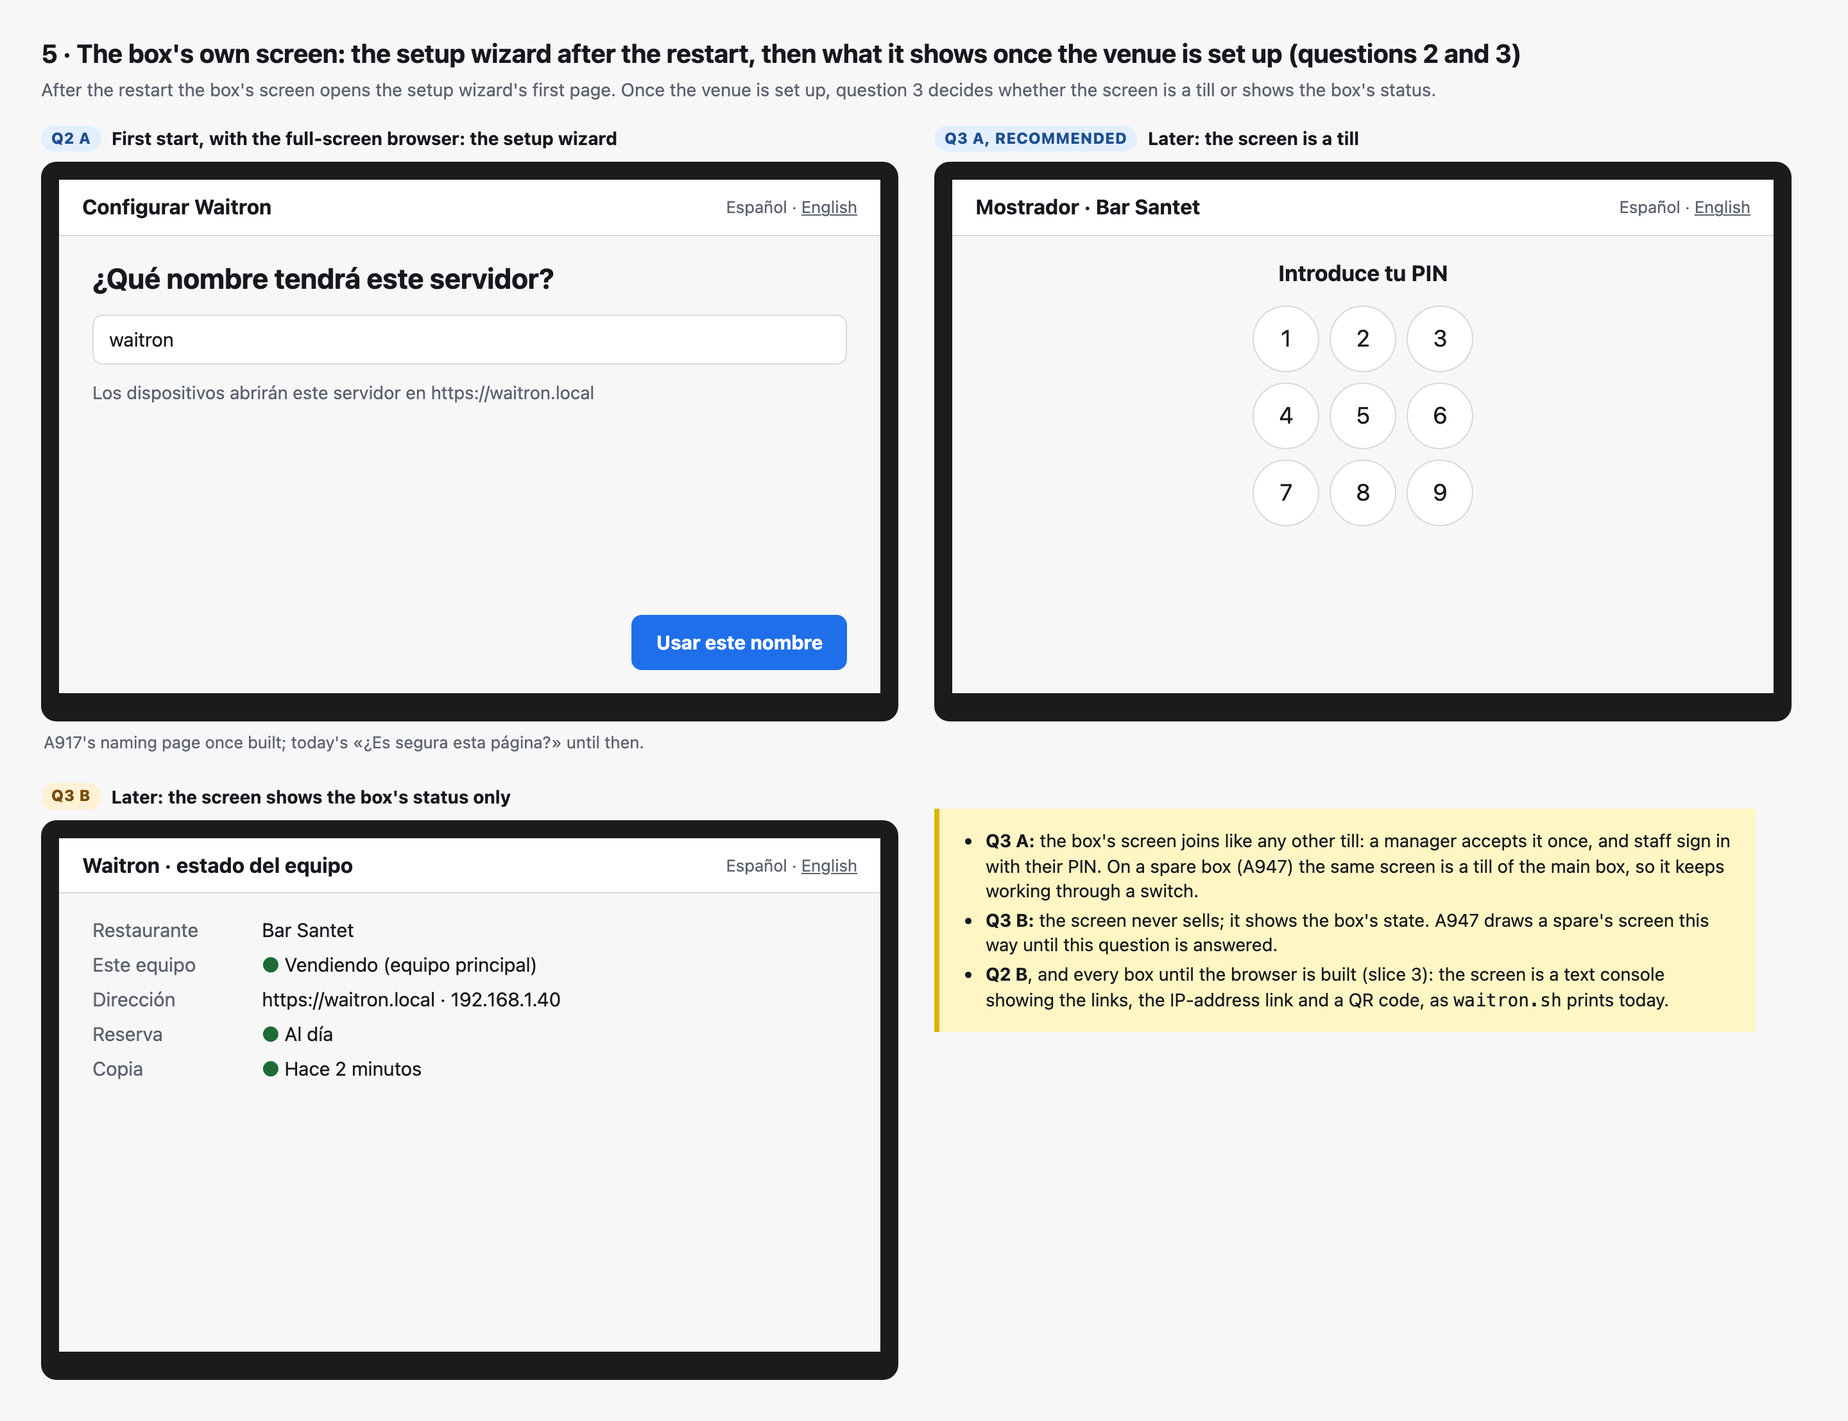
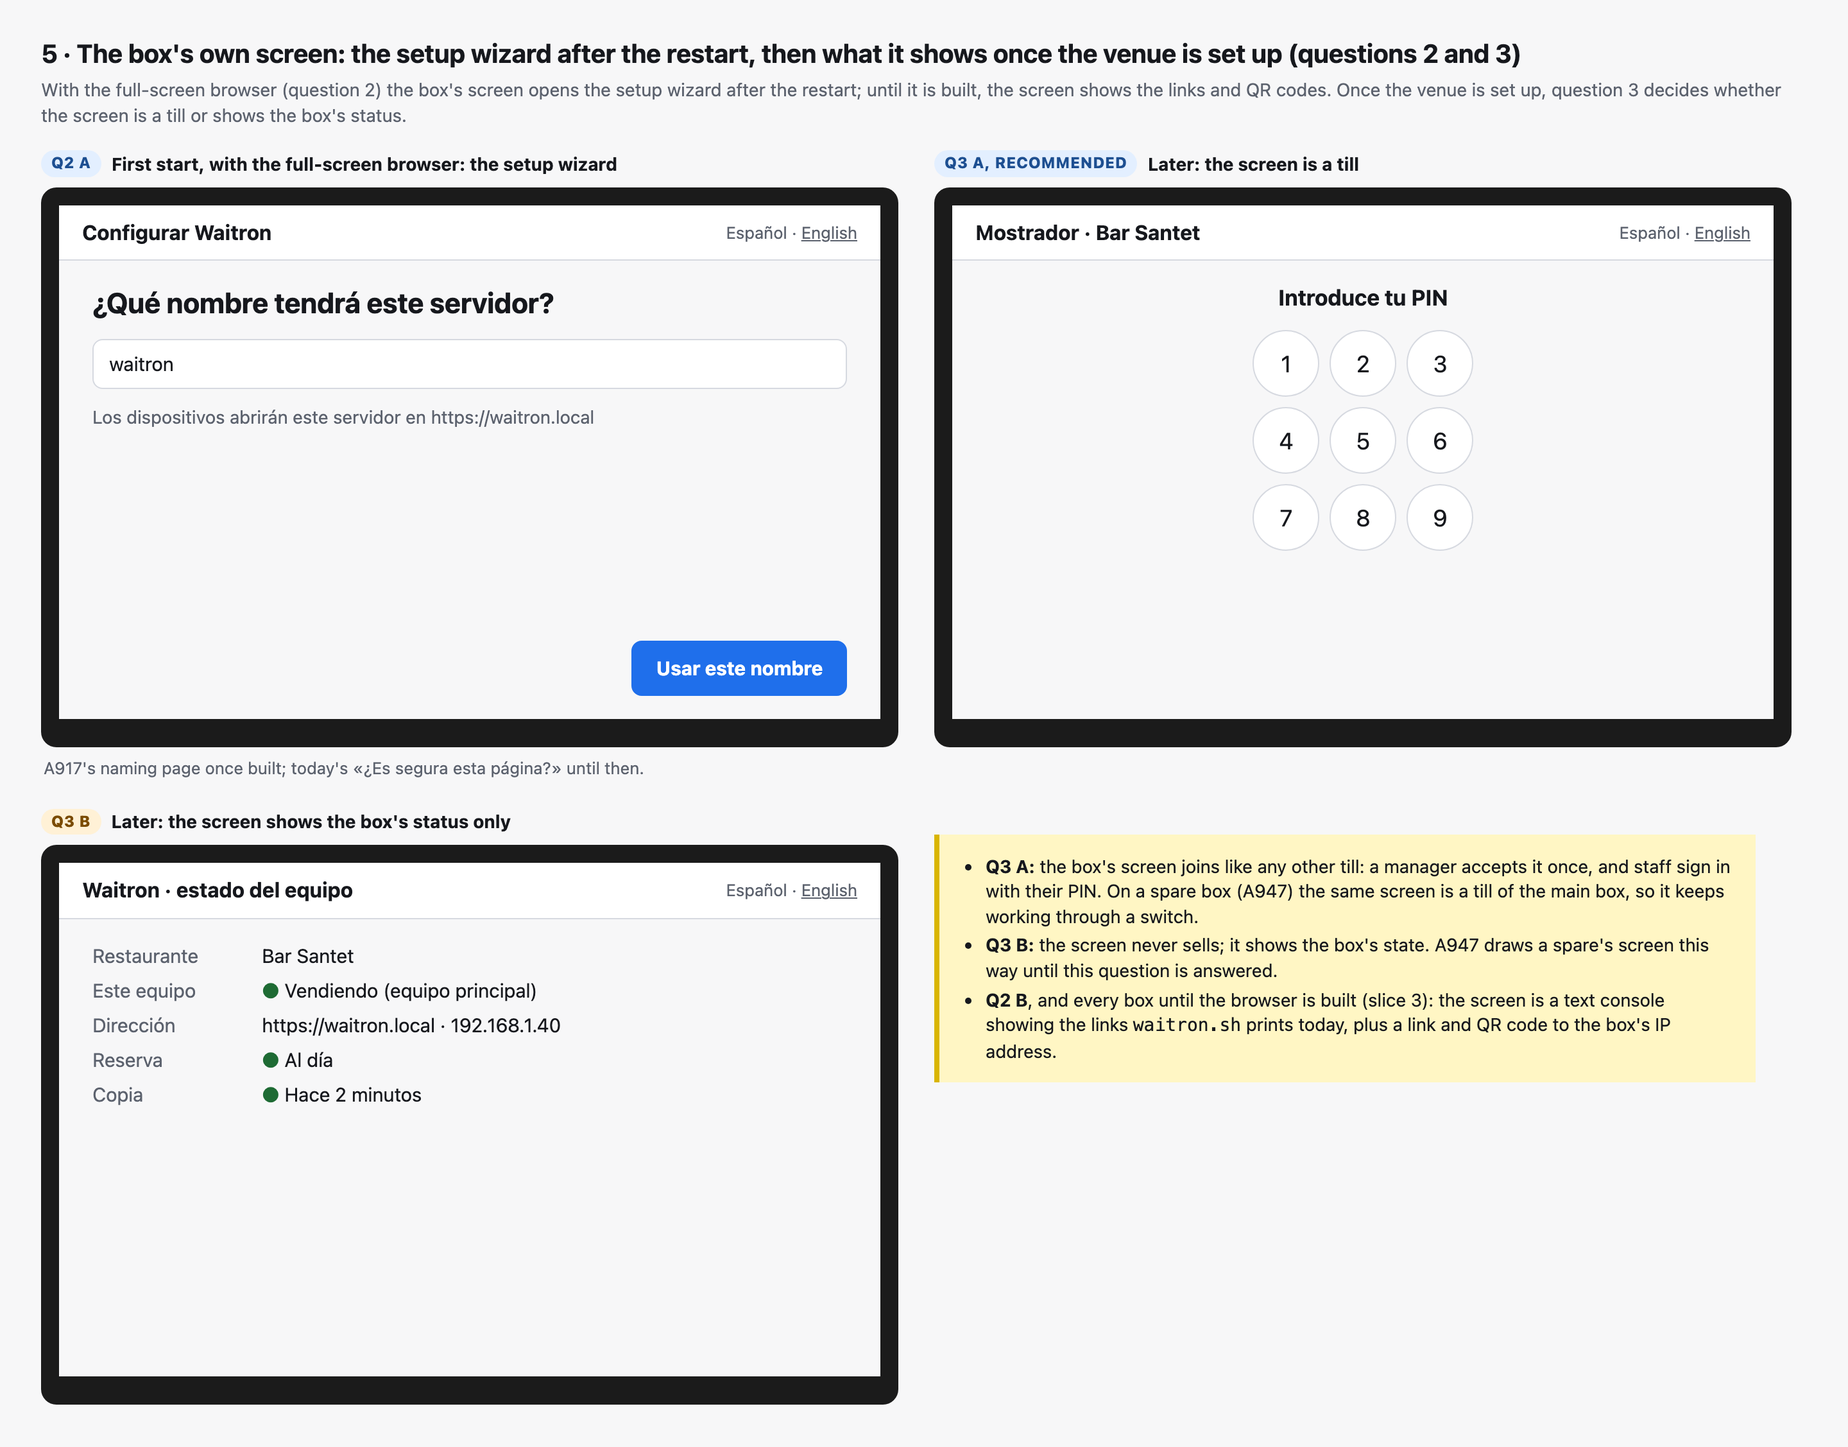
docs: B3 design — fold in three fresh checks
The installer design now names a first-start service (nothing else starts
Waitron on a stick-installed box), shows the records not yet sent to AEAT
before erasing a box, always asks to confirm the clock when offline, keeps
Docker updated, and drops the claim that the stick and waitron.sh cannot
drift apart. Pictures 2, 3 and 5 and question 1 follow.

diff --git a/docs/superpowers/specs/2026-10-21-b3-usb-installer-design.md b/docs/superpowers/specs/2026-10-21-b3-usb-installer-design.md
@@ -21,7 +21,8 @@ operating-system, partition, network or account step).
 
 The owner decided on 2026-10-21 that the first venue's boxes are installed from the USB installer,
 which makes B3 go-live work. Four other pieces of work are already waiting on what B3 lays down
-(A950 is a queued item with a backlog entry, not yet a design; the other three are designs):
+(A950 is a lane A campaign item for the backlog entry "Automatic upgrades that can be undone",
+`docs/backlog/box.md:39-69`, not yet a design; the other three are designs):
 
 - **A950, automatic upgrades that can be undone** — needs a disk that can take a snapshot. "The B3
   installer lays the disk out, so it can put the folder holding Docker's volumes on btrfs"
@@ -36,8 +37,9 @@ which makes B3 go-live work. Four other pieces of work are already waiting on wh
 
 And the owner's 2026-10-21 answer on A732 — no recovery desk: "But this isn't needed. You just
 reinstall the box and start again" (recorded in lane E's questions file, outside the repository;
-the repo's A732 entry at `docs/backlog.md:362` predates it) — makes the stick the way a broken box
-is repaired, not only the way a new one starts. Backups held elsewhere (an archive file, the
+the repo's A732 entry under the fiscal area of `docs/backlog.md` predates it). That answer was
+about a box whose owner lost the password and the recovery sheet; this design makes the stick the
+repair for any broken box, Live ones included, which §13 Q1 asks the owner to confirm. Backups held elsewhere (an archive file, the
 bucket, a Cloud copy) survive the wipe and are restored in the setup wizard.
 
 ## 1. Goals, non-goals, anti-goals
@@ -48,7 +50,8 @@ bucket, a Cloud copy) survive the wipe and are restored in the setup wizard.
    and a network cable, and ends at the setup wizard's first page, in about a quarter of an hour
    (an estimate; slice 1 measures it).
 2. Every box installed from one release's stick starts from the same disk, apart from what the
-   installer writes for that box (its network settings, its clock, a fresh machine identity, §7);
+   installer and the first start write for that box (its network settings, its clock, a fresh
+   machine identity, the disk grown to fill the box, the print agent's AppArmor line, §7);
    CI builds the stick and installs it in a virtual machine before it is published.
 3. The install needs no internet (§4). The box's clock, network and disk are ready for what A798,
    A947 and A950 ask of them.
@@ -113,7 +116,7 @@ once the browser is there (slice 3).
 
 | | Ready-made disk (chosen) | Debian's installer with an answer file |
 | --- | --- | --- |
-| What reaches each box | The same bytes CI built and booted | A fresh install from packages on the stick; each box can differ |
+| What reaches each box | The disk CI built and booted | A fresh install from packages on the stick; each box can differ |
 | Disk layout | Declared up front, any subvolumes (P6) | One btrfs subvolume, for `/`, only (P5); the rest by hand-written script at the end |
 | A question the answers missed | Cannot happen: nothing is asked but §5's | A critical one stops the install (P3, P4) |
 | Time per box | Copying an image (to be measured, slice 1) | A full package install (not measured) |
@@ -133,8 +136,8 @@ Its parts (sizes are not measured; slice 1 measures them):
 2. **The ready-made box disk** (§6), compressed.
 3. **A folder readable on any Windows or Mac computer**, named `WAITRON`, holding: `LEEME.html` /
    `README.html` (what this stick is and how to use it), the release's declaración responsable as
-   PDF and text (A940 §7.1), the licence notices and the written offer for source code (§8), and a
-   checksum list for the stick's own files.
+   PDF and text (A940 §7.1), a `licencias` folder with the licence notices and the written offer
+   for source code (§8), and a checksum list for the stick's own files.
 
 **Everything the box needs is on the stick: the install needs no internet.** That answers the
 backlog's open question "whether the stick carries the images so install needs no internet" (the
@@ -161,15 +164,16 @@ Waitron sells (slice 6 finds it; §11).
    - **A disk holding a Waitron venue** gets a red warning (picture 2). It names the venue, whether
      it is Live (filing with AEAT), its last sale, and **how many records it has not yet sent to
      AEAT**, which an erase loses unless a backup holding them is restored. It says the box's own
-     backups are on this disk and go with it: the venue's data comes back only from a copy held
+     backups, and its own record of past filings that a later recovery checks
+     (`docs/operations/hour-recovery.md:21-23`), are on this disk and go with it: the venue's data comes back only from a copy held
      elsewhere (an archive file, the bucket, a Cloud copy) restored in the setup wizard, or from a
      spare box (A947); either way this box starts a new fiscal chain (CLAUDE.md §5). The button
      stays disabled until the person types the venue's name. **My call**, as the strongest check
      that needs no password: the name is on every receipt, a stray press cannot type it.
-   - **This departs from `waitron.sh`**, which refuses to reset a Live box ("Recover a broken
-     production box from a backup", `deploy/waitron.sh:659`). The owner's A732 answer makes a
-     reinstall the repair, so the stick erases a Live box — but only with the name typed and the
-     unsent count shown.
+   - **The same shape as `waitron.sh`, with a different word typed.** `waitron.sh` refuses to reset
+     a Live box ("Recover a broken production box from a backup") unless run with
+     `--force-production` and the word «production» typed (`deploy/waitron.sh:659-662`). The stick
+     asks for the venue's name instead, and shows the unsent count, which `waitron.sh` does not.
    - **It fails closed.** A disk that looks like Waitron's (the stick's own layout, or a Docker
      volume named `waitron_state`) but whose venue cannot be read — encrypted, damaged, or a layout
      the installer does not know — is treated as a venue: the warning says it may hold a
@@ -208,10 +212,12 @@ Waitron sells (slice 6 finds it; §11).
    to start from USB first follows that order is untested (slice 6); the printed card says to take
    the stick out either way.
 
-**After the restart** (picture 5), the box's screen shows what `waitron.sh` prints today: the
-links, the box's IP-address link and a QR code to the trust page (`deploy/waitron.sh:374-391`,
-written to `/dev/tty1` at `:439-446`) — the IP link matters when another box already answers
-`waitron.local` (A917 §4.3). With the full-screen browser (§13 Q2, slice 3) the screen instead opens
+**After the restart** (picture 5), the box's screen shows the links `waitron.sh` prints today
+(`deploy/waitron.sh:374-391`, written to `/dev/tty1` at `:439-446`; all of them, and the QR code,
+point at `waitron.local`, `:21`), **plus a link and QR code to the box's IP address**, which
+`waitron.sh` does not print yet: A917's design adds it (§4.3, unbuilt) for when another box already
+answers `waitron.local` — A947's second box, here. The first-start service prints it whether or
+not A917 has landed. With the full-screen browser (§13 Q2, slice 3) the screen instead opens
 the setup wizard's first page — A917's naming page once that is built, today's "Is this page
 secure?" page until then (`apps/setup/src/setup-app.ts:545`). The installer asks nothing the wizard asks: not the name,
 not new-venue-or-spare (A947 §9), not the fiscal mode.
@@ -264,9 +270,11 @@ installer would add, such as the clock service (P23; inference, not built):
   archive on the disk; the builder picks, and either way nothing is downloaded. The box's
   `compose.yml` names those tags, never `:main`.
 - **A first-start service** — nothing starts Waitron otherwise: a restart policy takes effect only
-  after a container has started once (P29). It runs `docker compose up -d`, waits as `wait_healthy`
-  does, and prints the links, IP link and QR code to the screen as `announce_ready` does, or the
-  last log lines as `report_unhealthy` does (`deploy/waitron.sh:574-601`). After that, Docker's
+  after a container has started once (P29). It runs `docker compose up -d` (`deploy/waitron.sh:629`),
+  waits as `wait_healthy` does (`:574-586`), and writes to the screen either the links, the IP link
+  and QR code (`announce_ready` writes its links to `/dev/tty1`, `:439-446`) or, on failure, the
+  last log lines — not `report_unhealthy`'s advice, which names `waitron.sh` commands a stick box
+  cannot run (`:590-601`). After that, Docker's
   restart policy brings Waitron back after a power cut, as today.
 - **The box files `waitron.sh install` writes today** — `compose.yml`, `.env`, the print agent's
   AppArmor profile and the Bluetooth drop-in (`deploy/waitron.sh:184-319`). Two of those steps read
@@ -280,7 +288,8 @@ installer would add, such as the clock service (P23; inference, not built):
   `bluetooth.service`. Keeping the two install paths equal is a test, not a promise: slice 1
   compares a stick-installed box's files with a hand-installed one's.
 - **`apparmor`, `bluez` and `dbus`** — the print agent's container binds the host's D-Bus socket and
-  fails to start without it (`deploy/compose.yml:149-153`).
+  fails to start without it (`deploy/compose.yml:149-153`) — and **`qrencode`**, without which
+  `waitron.sh` draws no QR code (`deploy/waitron.sh:390`).
 - **A blank machine identity** (`/etc/machine-id`), made fresh on each box's first start, as systemd
   asks of a generic image (P30): two boxes from one stick on one switch (A947) must not share one.
 - **Firmware for common network cards** (wired and Wi-Fi), with its notices (P25).
@@ -290,8 +299,10 @@ installer would add, such as the clock service (P23; inference, not built):
 - **`unattended-upgrades`**, which by default takes Debian's security fixes and its point releases
   and never reboots on its own (P15). Its default list takes only Debian's own sources (P15), so
   Docker's packages would never be updated. **My call:** add Docker's package source to its list,
-  installed only in A950's quiet hour, with Docker's `live-restore` setting on so a Docker upgrade
-  does not restart Waitron's containers (the builder confirms both on the real box). When the box
+  held to the image's Docker version line and installed only in A950's quiet hour, with Docker's
+  `live-restore` setting on. Docker documents `live-restore` as keeping containers running across
+  "patch releases (YY.MM.x), not for major (YY.MM) daemon upgrades" (P31), so a newer Docker line
+  arrives only with a Waitron release. The builder confirms both on the real box. When the box
   may restart for a kernel fix is also A950's quiet hour.
 - **NetworkManager**, for the Wi-Fi the installer set (§5 step 2).
 - **WireGuard's tools**, so the link Cloud sets up later (`docs/backlog/box.md:355`) needs nothing
@@ -354,7 +365,7 @@ changes with it.
 
 A950 designs how a box upgrades; this design says only where it learns a release exists, the
 backlog's other open question, "unattended updates for a box we did not sell"
-(`docs/backlog.md:5263-5264`).
+(the B3 entry in `docs/backlog.md` as it stood on main 76adaee84).
 
 - **A small service on the box checks once a day for a new release**: a signed list attached to
   the latest GitHub Release, checked against Waitron's public key built into the image (P17). It
@@ -366,10 +377,12 @@ backlog's other open question, "unattended updates for a box we did not sell"
 - **Two public keys in every image** (**my call**): the one that signs today and a spare kept
   offline, so a lost or leaked key is replaced by a list signed with the other, without
   reinstalling every box. Who holds them is the owner's, at slice 7.
-- **A repair needs a stick at least as new as the box's data.** A restore refuses a database
-  written by a newer release (`apps/server/src/restore.ts:288`, through `assertNotAhead`), so a box
-  that has upgraded itself past its stick is reinstalled from the newest release's stick; the
-  stick's `LEEME` says so.
+- **A repair needs a stick at least as new as the box's data.** A box refuses to start on a
+  database carrying migrations its image does not ship (`assertNotAhead`, called before the server
+  starts, `apps/server/src/node-entry.ts:231-238`). So a backup made by a newer release, restored
+  on a box installed from an older stick, leaves a box that will not start (my reading of the
+  restore path, not run). A box that has upgraded itself past its stick is therefore reinstalled
+  from the newest release's stick; the stick's `LEEME` says so.
 - **A box installed by hand with `waitron.sh` has no such service** and upgrades as today.
 - **Debian's own security fixes** arrive through `unattended-upgrades` (§7) whatever Waitron
   releases.
@@ -434,7 +447,8 @@ Asked one at a time, with pictures, through the watcher. The full text, with the
 is in [`question.txt`](../../backlog/mockups/b3-usb-installer/question.txt).
 
 1. **What the stick does.** **A (recommended):** carries everything, needs no internet, asks one
-   confirmation on the box's screen before erasing (§3–§5). **B:** a small stick that downloads
+   confirmation on the box's screen before erasing (§3–§5), and the venue's name typed before it
+   erases a box that holds one — Live boxes included, which extends the owner's A732 answer (§0). **B:** a small stick that downloads
    the release during the install. **C:** fully unattended, erasing with no question, for boxes
    with no screen — and a stick left in a box can erase a venue.
 2. **The full-screen browser on every box** (the owner's lean of 2026-09-29). **A (recommended):**
@@ -476,8 +490,10 @@ is in [`question.txt`](../../backlog/mockups/b3-usb-installer/question.txt).
    clock, the four traps, a power cut with the stick left in (anti-goal 1).
 7. **The release check** — §9's service, handed to A950.
 
-Slices 1, 2 and 5 are the go-live minimum: a Live box runs only a release (A940 §5.1), so the
-first venue's stick is built from the first release tag, which waits for A940's release slices.
+Slices 1, 2, 5 and 6 are the go-live minimum: a Live box runs only a release (A940 §5.1), so the
+first venue's stick is built from the first release tag, which waits for A940's release slices;
+and the boot-menu key, the boot order, Secure Boot and the power-cut test are found only on the
+real box.
 Slices 3 and 4 follow the answers. None is fiscal.
 
 ## 15. What this design does not settle, for the builder
@@ -528,3 +544,4 @@ Fetched 2026-10-21 with `curl`; the source's own words are quoted in
 | P28 | "By default, Windows uses localtime" for the hardware clock | https://wiki.archlinux.org/title/System_time, fetched 2026-10-21 by the second review |
 | P29 | "A restart policy only takes effect after a container starts successfully" | https://docs.docker.com/engine/containers/start-containers-automatically/, fetched 2026-10-21 by the second review |
 | P30 | `/etc/machine-id` "should be either missing or an empty file in the generic file system image" | machine-id(5), freedesktop.org, fetched 2026-10-21 by the second review |
+| P31 | "Live restore allows you to keep containers running across Docker daemon updates, but is only supported when installing patch releases (YY.MM.x), not for major (YY.MM) daemon upgrades." | https://docs.docker.com/engine/daemon/live-restore/, fetched 2026-10-21 by the third review |

diff --git a/docs/backlog.md b/docs/backlog.md
@@ -5268,10 +5268,10 @@ _Formerly B2, B3, B4, B5 and B7._ Detail: [backlog/box.md](backlog/box.md).
   ready-made Waitron disk (Debian 13, Docker, the release's images; btrfs subvolumes for A950) and
   needs no internet; it erases nothing without a press on the box's screen, and a venue's name typed
   if the disk holds one. Built and booted in CI for every release. Not built. Box image constraints
-  under [Box image constraints (B3)](backlog/box.md#box-image-constraints-b3). Left open by the
-  design (§12), each to become its own entry once the design is approved: moving a box from Debian 13
-  to 14 before Chromium's fixes stop; disk encryption; a stick file over GitHub's 2 GiB limit;
-  changing the box's Wi-Fi after install without a terminal.
+  under [Box image constraints (B3)](backlog/box.md#box-image-constraints-b3). The design's §12
+  lists what it leaves open, each to become its own entry once the design is approved (among them
+  moving a box from Debian 13 to 14 before Chromium's fixes stop, disk encryption, and setting the
+  clock by hand without a terminal, handed to A798).
 
 - **The box image carries the WireGuard link.** [Detail](backlog/box.md#box-image-constraints-b3)
 

diff --git a/docs/backlog/mockups/b3-usb-installer/README.md b/docs/backlog/mockups/b3-usb-installer/README.md
@@ -6,9 +6,9 @@ them; captions in English. Owner questions: [`question.txt`](question.txt).
 
 1. `1-this-box.png` — the installer's first screen: the disk, what it holds, one press.
 2. `2-venue-found.png` — reinstalling a box that holds a restaurant: type its name to erase.
-3. `3-network-clock.png` — choosing Wi-Fi when there is no cable; setting a clock that reads too early.
+3. `3-network-clock.png` — choosing Wi-Fi when there is no cable; confirming the clock when offline.
 4. `4-installing-done.png` — progress, then "remove the stick".
-5. `5-box-screen.png` — the box's own screen: the setup wizard, then a till (Q3 A) or a status page (Q3 B).
+5. `5-box-screen.png` — the box's own screen with the full-screen browser (Q2 A): the setup wizard, then a till (Q3 A) or a status page (Q3 B).
 6. `6-stick-and-disk.png` — the stick's WAITRON folder on any computer; the disk layout.
 7. `7-q1-what-the-stick-does.png` — question 1's three options.
 8. `8-q4-maintenance.png` — question 4's three options.
